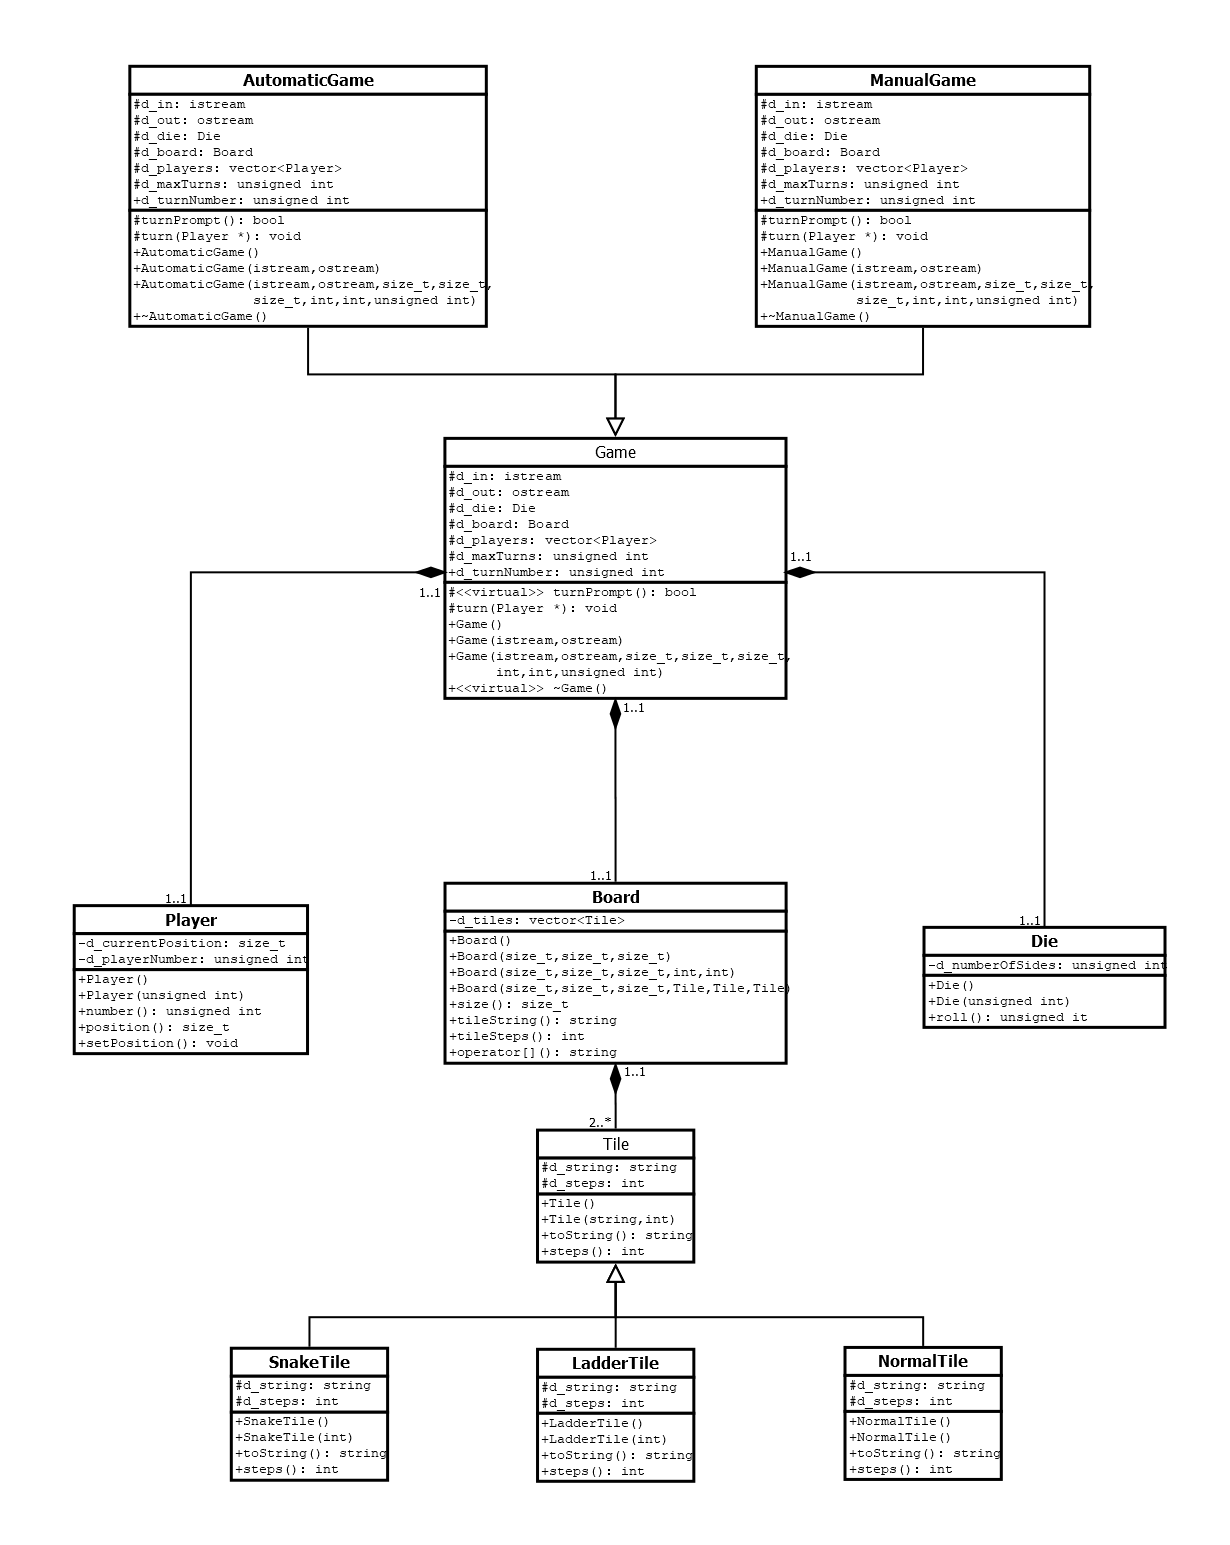
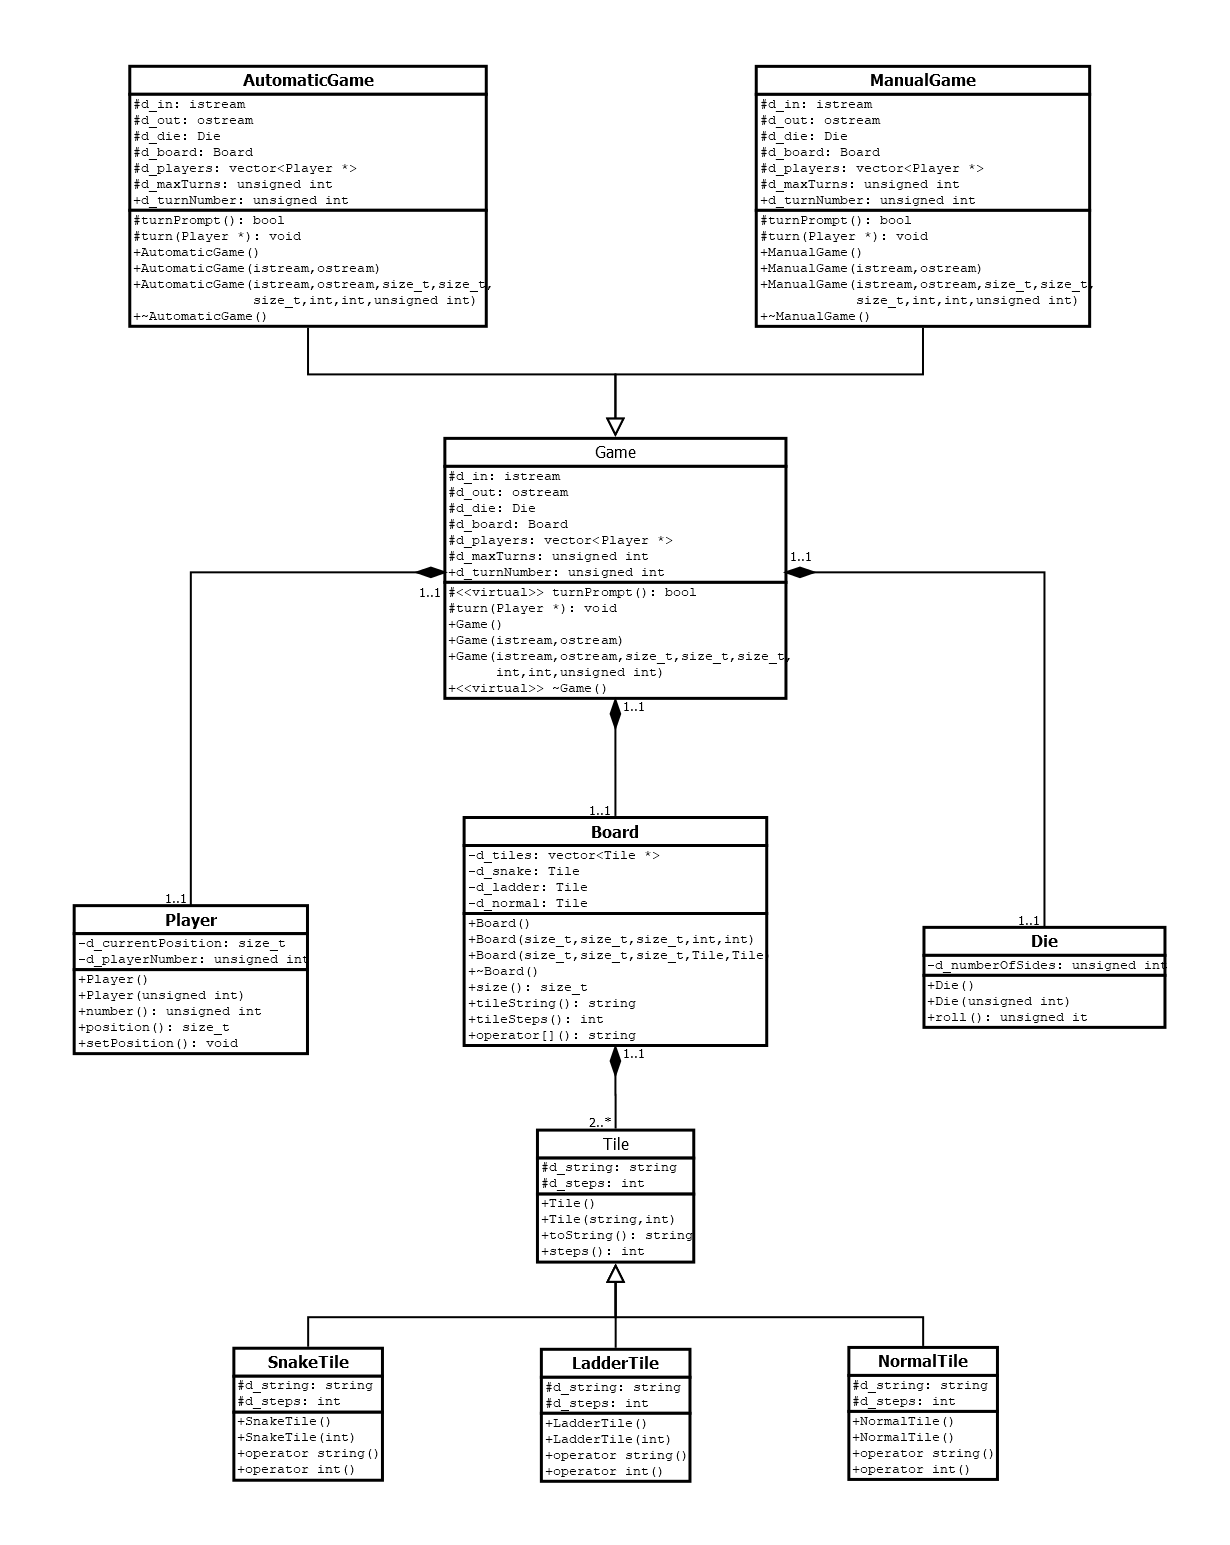
update README, update UML class diagram

diff --git a/src/Board.hpp b/src/Board.hpp
@@ -24,7 +24,6 @@ private:
 
 public:
     Board();
-    // Board(size_t boardSize, size_t numberOfSnakes, size_t numberOfLadders);
     Board(size_t boardSize, size_t numberOfSnakes, size_t numberOfLadders,
           int snakePenalty, int ladderReward);
 
